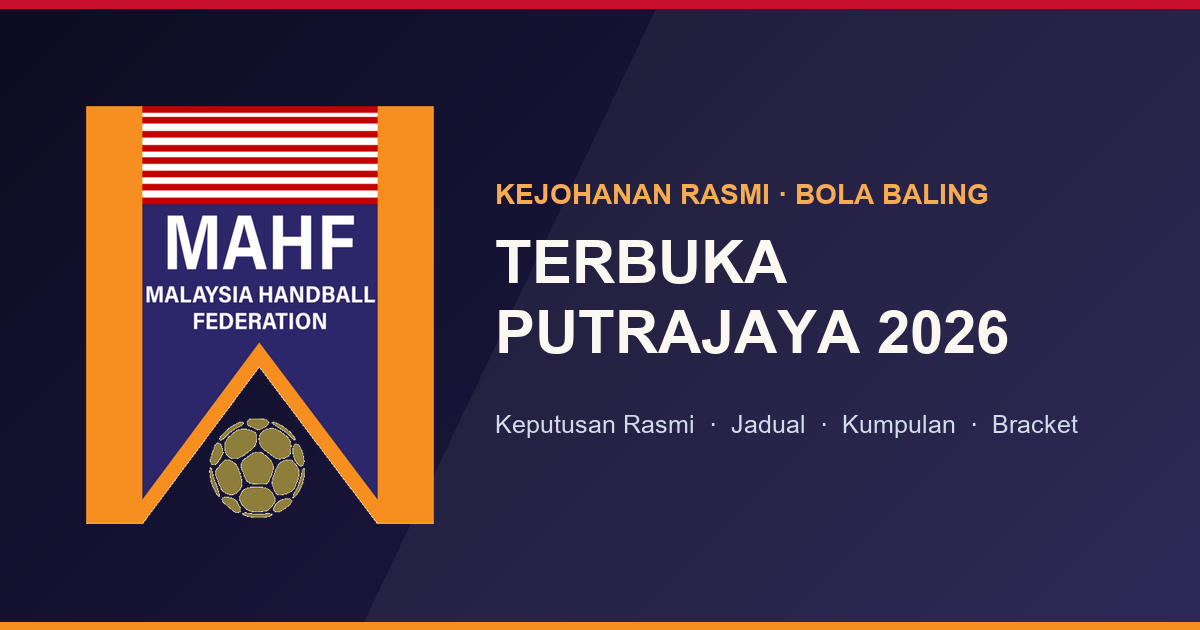
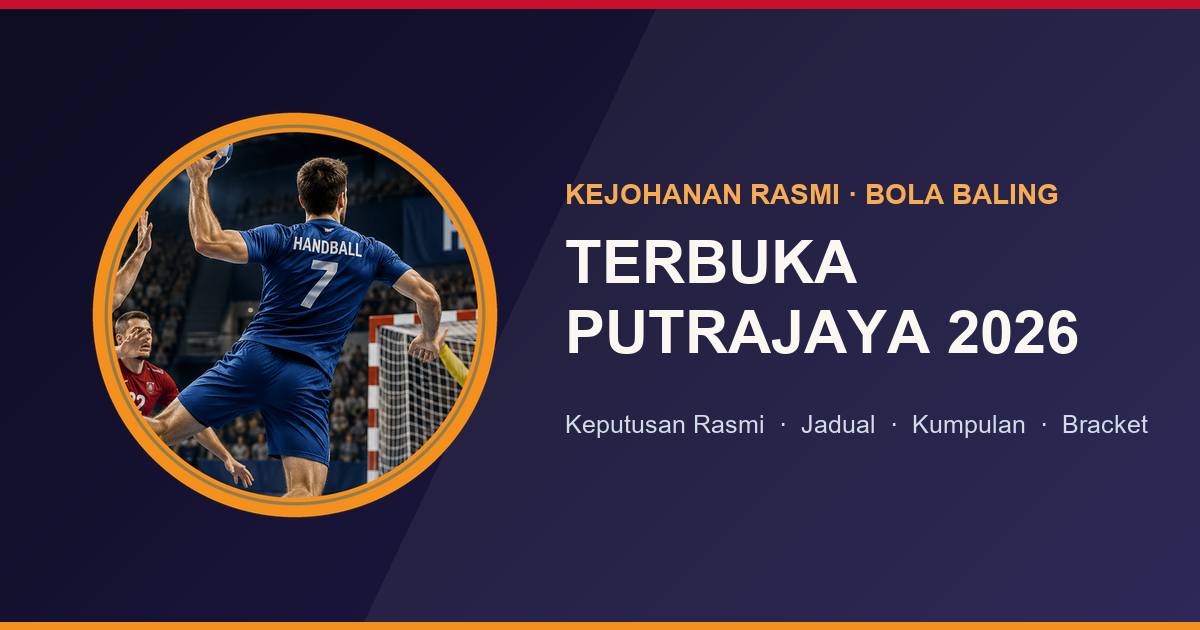
Refactor code structure for improved readability and maintainability

Changed region(s): [[0.0617, 0.1508, 0.9558, 0.8444]]

diff --git a/index.html b/index.html
@@ -29,7 +29,7 @@
   /* ── HERO ── */
   .hero{background:linear-gradient(160deg,var(--blueDark) 0%,var(--blue) 100%);color:#fff;position:relative;padding:22px 16px 36px;border-top:4px solid var(--red)}
   .hero-inner{max-width:860px;margin:0 auto;display:flex;align-items:center;gap:14px;cursor:pointer}
-  .hero img{height:52px;width:auto;filter:drop-shadow(0 2px 8px rgba(0,0,0,.35))}
+  .hero img{height:92px;width:auto;filter:drop-shadow(0 2px 8px rgba(0,0,0,.35))}
   .eyebrow{font-family:Archivo;font-weight:700;font-size:11px;letter-spacing:.16em;color:var(--yellow);text-transform:uppercase}
   h1{font-family:Archivo;font-weight:800;font-size:22px;line-height:1.15;margin-top:3px}
   .wave{position:absolute;left:0;right:0;bottom:-1px;line-height:0}
@@ -210,10 +210,10 @@
 
 <div class="hero">
   <div class="hero-inner" id="logo">
-    <img src="mahf-logo.png" alt="Malaysia Handball Federation">
+    <img src="logo-badge.png" alt="Terbuka Putrajaya">
     <div>
       <div class="eyebrow">Keputusan Rasmi · Bola Baling</div>
-      <h1>Kejohanan Terbuka Putrajaya 2026</h1>
+      <h1>KEJOHANAN BOLA BALING TERBUKA PUTRAJAYA 2026</h1>
     </div>
   </div>
   <div class="wave"><svg viewBox="0 0 800 22" preserveAspectRatio="none">
@@ -242,7 +242,7 @@
   <div id="v-zon" class="hidden"></div>
   <div id="v-results" class="hidden"></div>
 
-  <footer>Kejohanan Bola Baling Terbuka Putrajaya 2026</footer>
+  <footer>KEJOHANAN BOLA BALIING TERBUKA PUTRAJAYA 2026<</footer>
 </div>
 
 <script type="module">

diff --git a/admin.html b/admin.html
@@ -13,7 +13,7 @@
   body{margin:0;background:var(--bg);color:var(--ink);font-family:Inter,system-ui,sans-serif}
   .wrap{max-width:660px;margin:0 auto;padding:16px 16px 70px}
   .brand{display:flex;align-items:center;gap:12px}
-  .brand img{height:40px;width:auto}
+  .brand img{height:64px;width:auto}
   h1{font-family:Archivo;font-weight:800;font-size:17px;margin:0;color:var(--blueDark)}
   .sub{color:var(--muted);font-size:12px}
   .login{max-width:350px;margin:60px auto;background:var(--card);border:1px solid var(--line);border-radius:14px;padding:24px;border-top:4px solid var(--yellow)}
@@ -115,7 +115,7 @@
 <body>
 <div class="wrap">
   <div id="login" class="login">
-    <div class="brand"><img src="mahf-logo.png" alt=""><h1>Pentadbir Terbuka Putrajaya</h1></div>
+    <div class="brand"><img src="logo-badge.png" alt=""><h1>Pentadbir Terbuka Putrajaya</h1></div>
     <input id="email" type="email" placeholder="Emel" autocomplete="username">
     <input id="pass" type="password" placeholder="Kata laluan" autocomplete="current-password">
     <button class="btn" id="btnLogin">Log masuk</button>
@@ -124,7 +124,7 @@
 
   <div id="panel" class="hidden">
     <div class="topbar">
-      <div class="brand"><img src="mahf-logo.png" alt="">
+      <div class="brand"><img src="logo-badge.png" alt="">
         <div><h1>Pentadbir Kejohanan</h1><div class="sub" id="who"></div></div></div>
       <button class="out" id="btnOut">Log keluar</button>
     </div>
